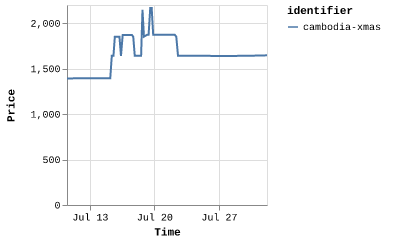
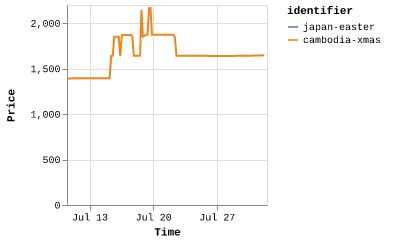
Latest scraping flights: Fri Aug  1 12:27:15 UTC 2025

diff --git a/scrapes/flights/japan-easter.md b/scrapes/flights/japan-easter.md
@@ -1,0 +1,1 @@
+€1,953
